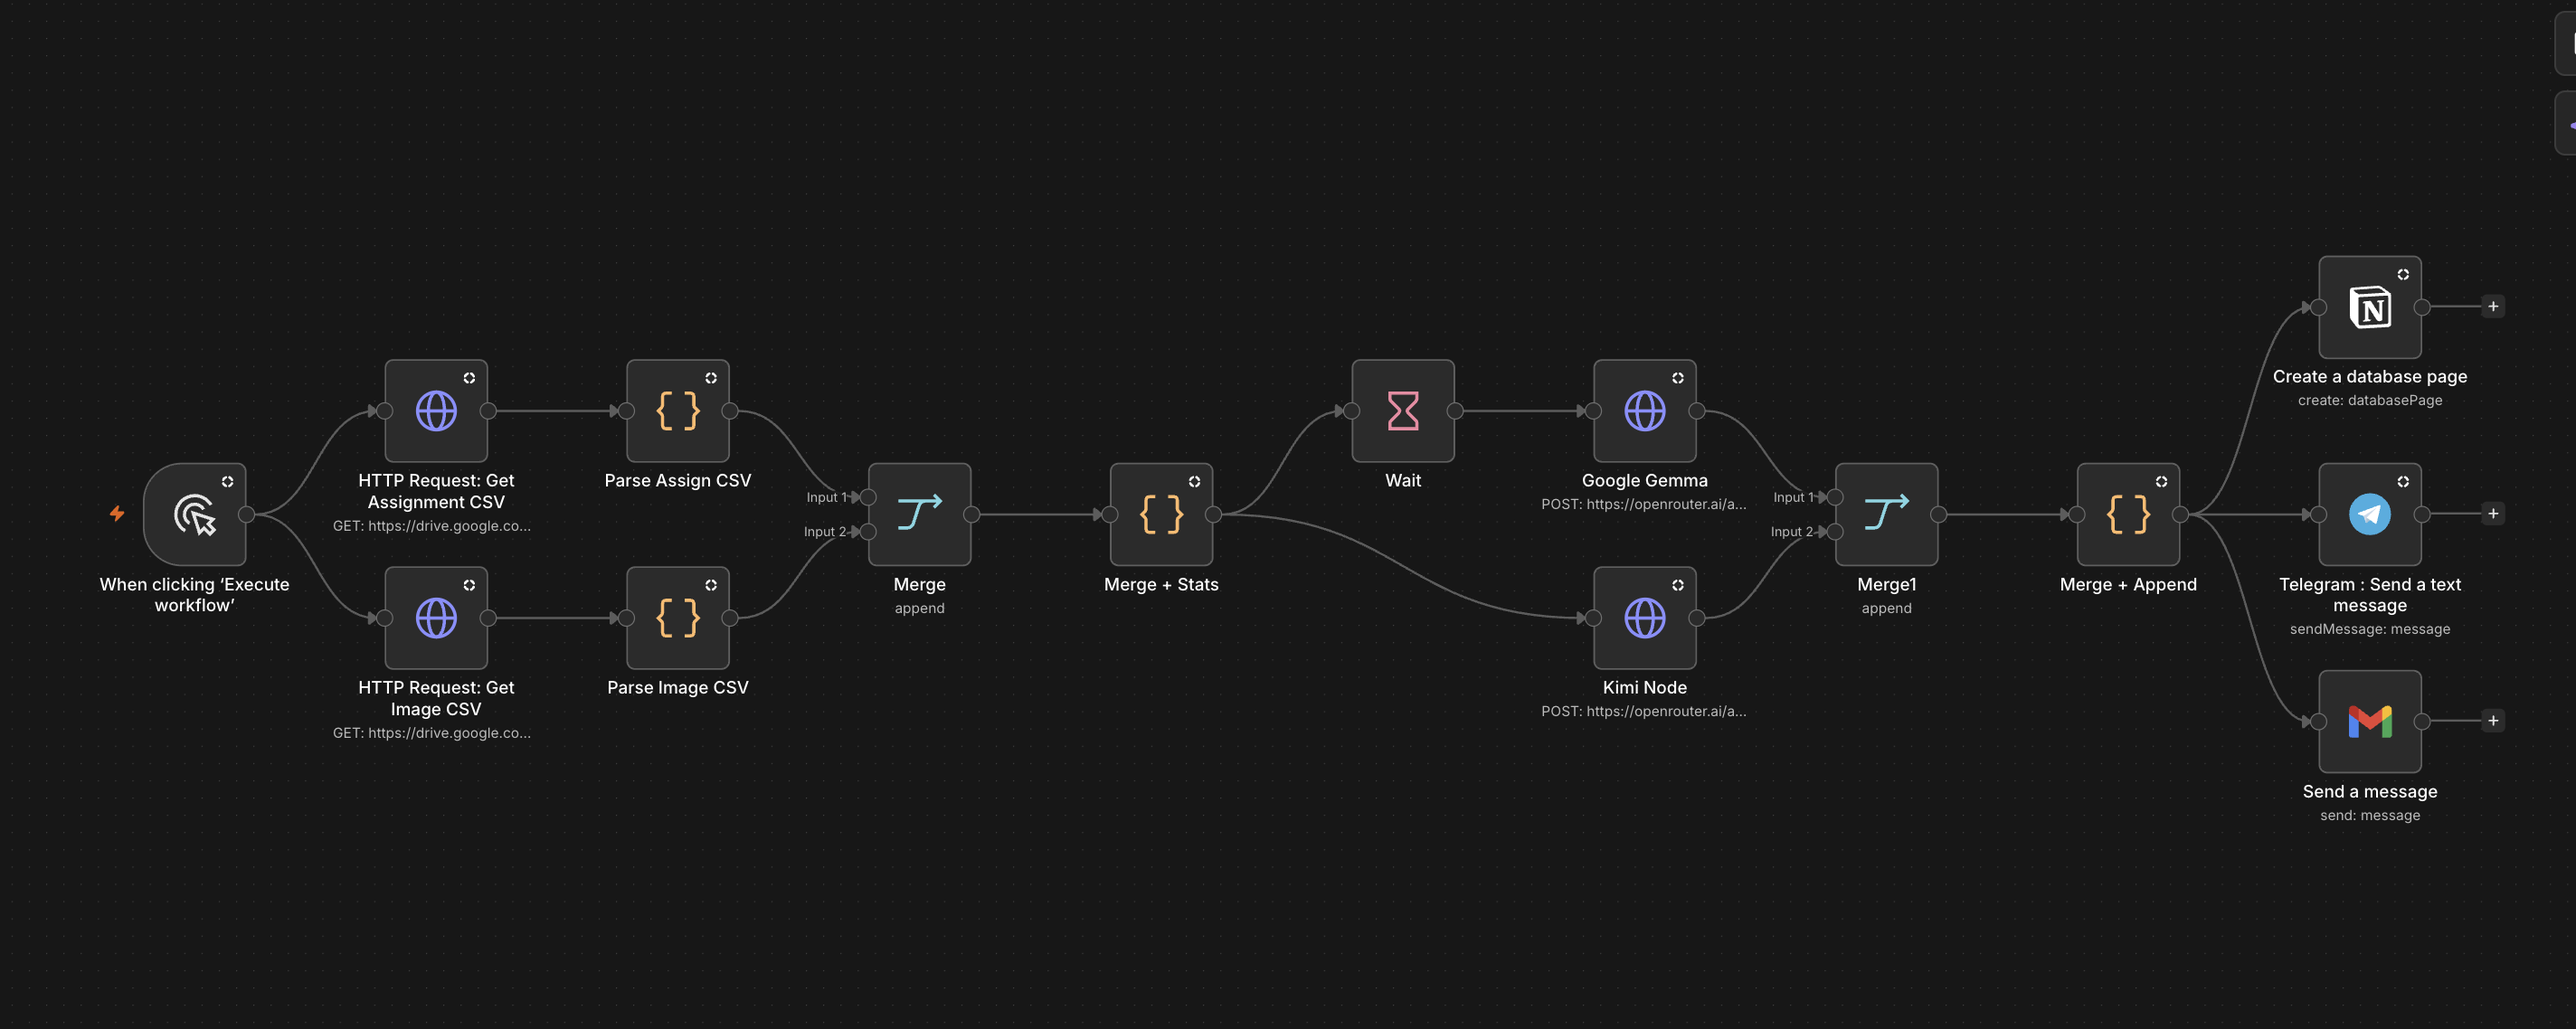
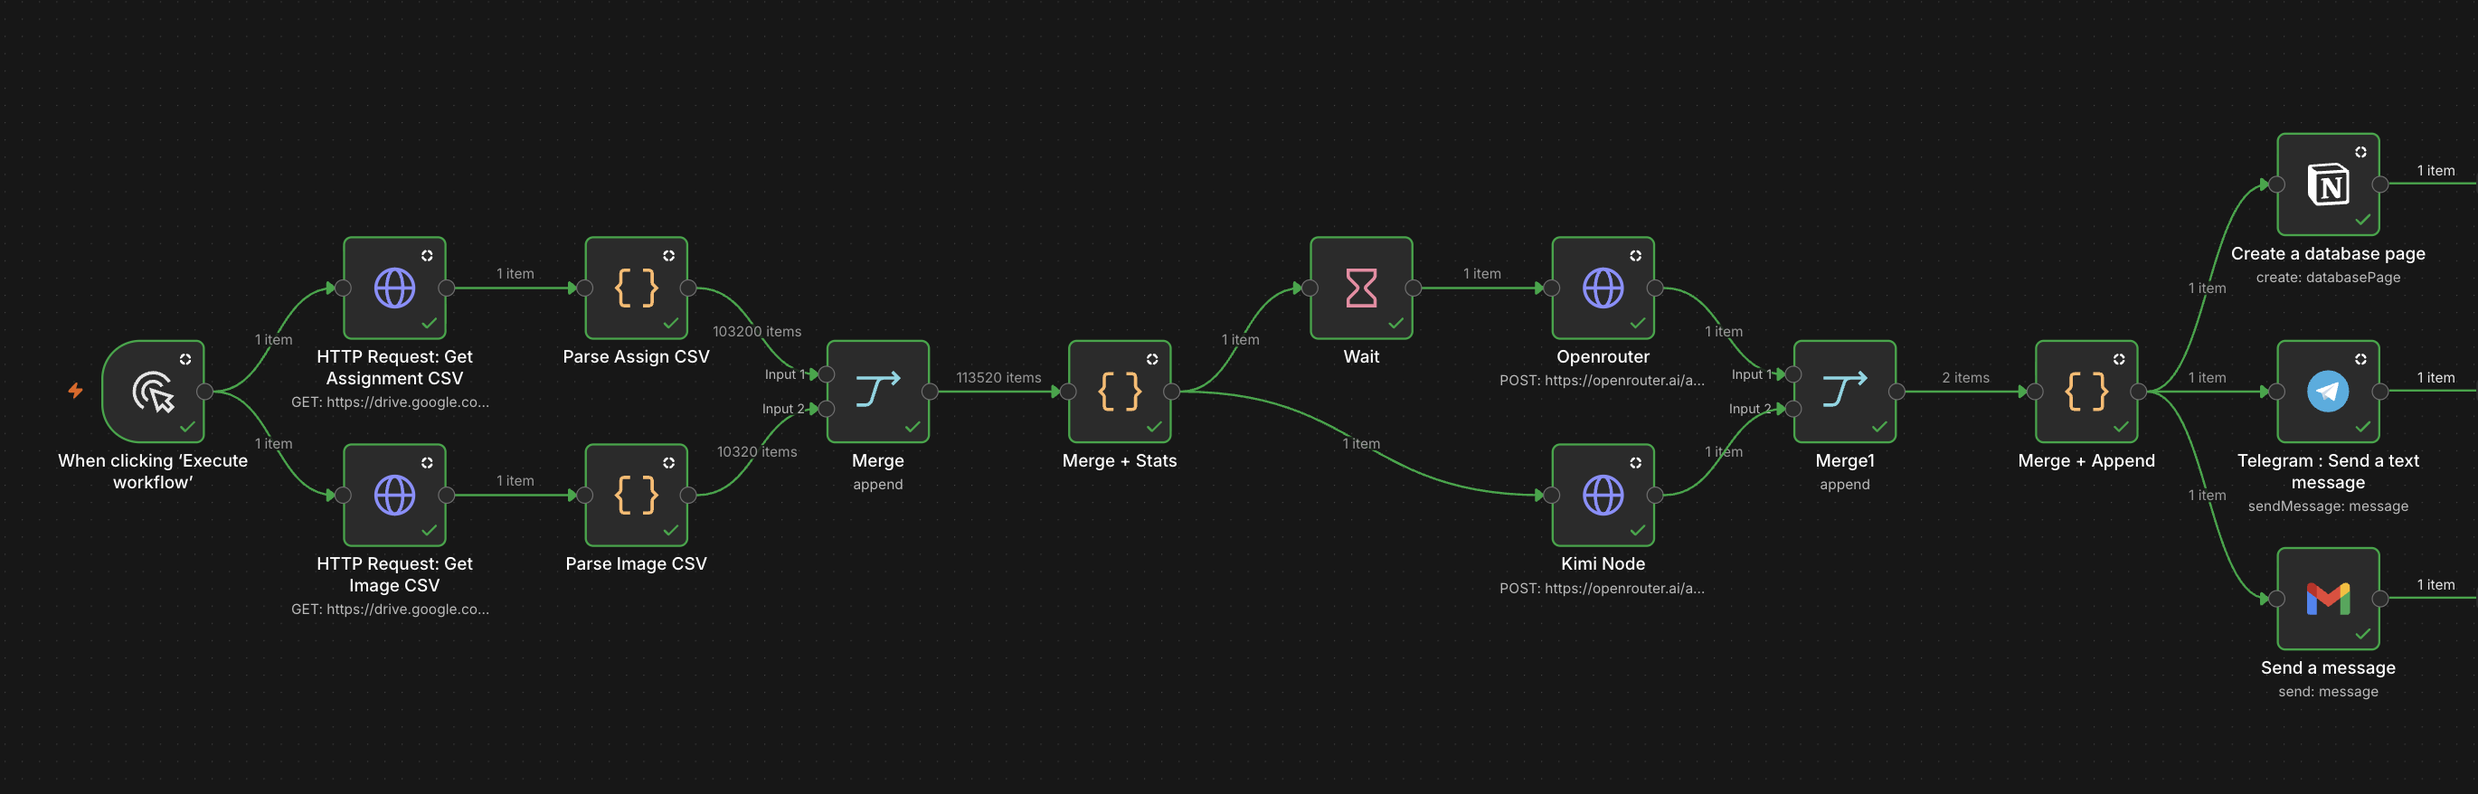
image fix

diff --git a/README.md b/README.md
@@ -1,4 +1,4 @@
-# 🤖 GenImageNet Agentic AI Pipeline
+# GenImageNet Agentic AI Pipeline
 
 > An end-to-end automated workflow that analyses 103,200 human assignments from the GenImageNet dataset, runs dual-AI peer review, detects rater bias, and delivers reports to Telegram, Gmail and Notion. All on autopilot.
 
@@ -8,7 +8,7 @@
 
 ---
 
-## 📌 What This Does
+## What This Does
 
 This pipeline processes the [GenImageNet dataset](https://openbigdata.org/resource/ai-generated-marketing-images-10k-human-ratings-for-quality-and-realism/), 10,320 AI-generated marketing images rated by human workers across 103,200 individual assignments, drawn from 254,400 total assessments covering **quality, realism, aesthetics, creativity, adherence to prompt and overall marketing effectiveness** on a 1-7 scale.
 
@@ -23,7 +23,7 @@ The workflow:
 
 ---
 
-## 🏗 Architecture
+## Architecture
 
 ```
 Trigger
@@ -43,7 +43,7 @@ Trigger
 
 ---
 
-## 📊 Key Findings (from real run, May 2026)
+## Key Findings (from real run, May 2026)
 
 > ⚠ **Disclaimer:** These findings reflect one run of this pipeline on a specific dataset snapshot.  
 > They are intended as a demonstration of the pipeline's capabilities, not as a definitive benchmark of AI model quality. Do not use these rankings for commercial model selection without independent validation.
@@ -62,7 +62,7 @@ Trigger
 
 ---
 
-## 🧠 Dual-AI Peer Review
+## Dual-AI Peer Review
 
 The workflow deliberately uses **two different AI models** to avoid single-model bias:
 
@@ -77,7 +77,7 @@ An **agreement score** is calculated. If ≥ 75%, the report is marked `AUTO_PUB
 
 ---
 
-## 🔍 Bias & Variance Detection
+## Bias & Variance Detection
 
 Each rater's average deviation from the crowd mean is calculated per image. Workers with |avgDeviation| > 1.5 across ≥ 5 ratings are flagged:
 
@@ -88,7 +88,7 @@ In this dataset, **60 workers were flagged in total: 30 harsh raters and 30 leni
 
 ---
 
-## 🛠 Tech Stack
+## Tech Stack
 
 | Component | Tool |
 |---|---|
@@ -102,7 +102,7 @@ In this dataset, **60 workers were flagged in total: 30 harsh raters and 30 leni
 
 ---
 
-## 🚀 Setup Instructions
+## Setup Instructions
 
 ### 1. Prerequisites
 - n8n Cloud account (or self-hosted via Docker)
@@ -136,7 +136,7 @@ Click **Execute Workflow** in n8n. Full run takes ~30–45 seconds.
 
 ---
 
-## 📁 Repository Structure
+## Repository Structure
 
 ```
 autonomous-art-snob/
@@ -145,14 +145,15 @@ autonomous-art-snob/
 ├── sample_output/
 │   └── sample_report.txt  # Example report output
 └── docs/
-    └── flow_diagram.png   # Visual workflow diagram
+    ├── n8n-genimgnet.png  # Visual workflow diagram
+    └── notion_view.png    # Notion Database view
 ```
 
 ---
 
-## 📜 Dataset Credit
+## Dataset Credit
 
-**GenImageNet** - AI-Generated Marketing Images: 10K Human Ratings for Quality and Realism  
+**GenImageNet** - [AI-Generated Marketing Images: 10K Human Ratings for Quality and Realism](https://openbigdata.org/resource/ai-generated-marketing-images-10k-human-ratings-for-quality-and-realism/)  
 Source: [openbigdata.org](https://openbigdata.org/resource/ai-generated-marketing-images-10k-human-ratings-for-quality-and-realism/)
 
 > This project uses the GenImageNet dataset for research and educational purposes only.  
@@ -161,6 +162,6 @@ Source: [openbigdata.org](https://openbigdata.org/resource/ai-generated-marketin
 
 ---
 
-## 🪪 License
+## License
 
 MIT : free to use, modify, and distribute.
